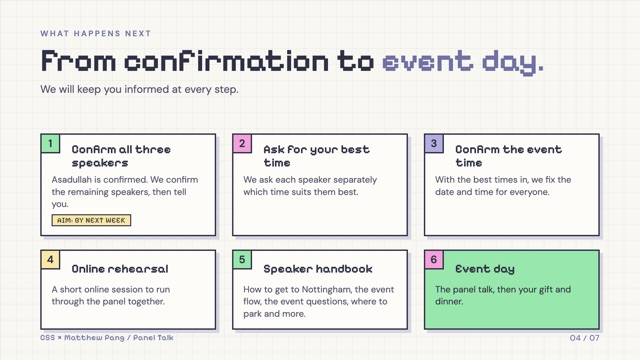
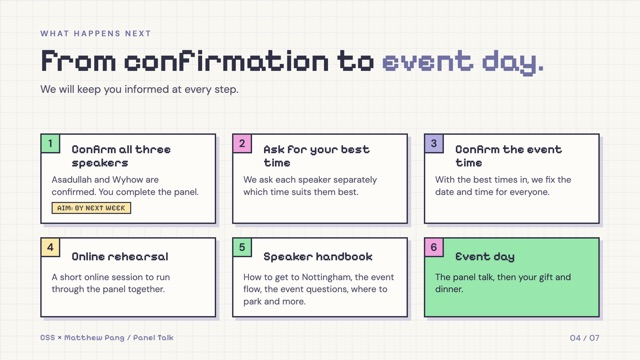
Matthew Pang deck: add his photo and mark Asadullah and Wyhow as confirmed
Matthew Pang is the invited third speaker. The timeline and closing wording now reflect that two of the three are confirmed.

Changed region(s): [[0.0625, 0.4889, 0.9688, 0.9472]]

diff --git a/external/03-matthew-pang-panel/index.html b/external/03-matthew-pang-panel/index.html
@@ -188,7 +188,7 @@
           <div class="info"><h3>Asadullah</h3><p class="role">Data Scientist, Cognizant</p></div>
         </article>
         <article class="person pop" style="--d:4">
-          <span class="stamp invited" aria-hidden="true">INVITED</span>
+          <span class="stamp" aria-hidden="true">CONFIRMED</span>
           <div class="bar"><span>speaker_02</span><span class="lights" aria-hidden="true"><i></i><i></i><i></i></span></div>
           <img class="photo" src="wyhow.jpg" alt="Photo of Wyhow">
           <div class="info"><h3>Wyhow</h3><p class="role">Solution Engineer, Microsoft</p></div>
@@ -196,7 +196,7 @@
         <article class="person pop" style="--d:5">
           <span class="stamp invited" aria-hidden="true">INVITED</span>
           <div class="bar"><span>speaker_03</span><span class="lights" aria-hidden="true"><i></i><i></i><i></i></span></div>
-          <div class="blank" aria-hidden="true">M</div>
+          <img class="photo" src="matthewpang.jpg" alt="Photo of Matthew Pang">
           <div class="info"><h3>Matthew Pang</h3><p class="role">Role and company to follow</p></div>
         </article>
       </div>
@@ -257,7 +257,7 @@
         <p class="lede rise" style="--d:2;font-size:32px">We will keep you informed at every step.</p>
       </div>
       <ol class="road">
-        <li class="stop pop" style="--d:3"><span class="n" style="--c:var(--mint)">1</span><h3>Confirm all three speakers</h3><p>Asadullah is confirmed. We confirm the remaining speakers, then tell you.</p><span class="chip">AIM: BY NEXT WEEK</span></li>
+        <li class="stop pop" style="--d:3"><span class="n" style="--c:var(--mint)">1</span><h3>Confirm all three speakers</h3><p>Asadullah and Wyhow are confirmed. You complete the panel.</p><span class="chip">AIM: BY NEXT WEEK</span></li>
         <li class="stop pop" style="--d:4"><span class="n" style="--c:var(--pink)">2</span><h3>Ask for your best time</h3><p>We ask each speaker separately which time suits them best.</p></li>
         <li class="stop pop" style="--d:5"><span class="n" style="--c:var(--lavender)">3</span><h3>Confirm the event time</h3><p>With the best times in, we fix the date and time for everyone.</p></li>
         <li class="stop pop" style="--d:6"><span class="n" style="--c:var(--sun)">4</span><h3>Online rehearsal</h3><p>A short online session to run through the panel together.</p></li>
@@ -335,7 +335,7 @@
         <div class="bar"><span>next_steps</span><span class="lights" aria-hidden="true"><i></i><i></i><i></i></span></div>
         <div class="body">
           <p class="k">&gt; What we do next</p>
-          <p>We confirm our remaining speakers, aiming for next week, then come back to you with the plan.</p>
+          <p>We would love to confirm you as our third speaker, aiming for next week, then come back to you with the plan.</p>
           <p class="thanks">Thank you, Matthew.</p>
         </div>
       </div>

diff --git a/README.md b/README.md
@@ -21,7 +21,7 @@ Regular slot: Tuesdays at 6 PM, under an hour.
 
 | # | Deck | Folder |
 |---|------|--------|
-| 03 | Computer Science Society Panel Talk, CSS × Matthew Pang: the invitation deck addressed to Matthew Pang, added to the panel as an invited third speaker. His role, company and photo still need adding on slide 2 (7 slides) | [`external/03-matthew-pang-panel/`](external/03-matthew-pang-panel/) |
+| 03 | Computer Science Society Panel Talk, CSS × Matthew Pang: the invitation deck addressed to Matthew Pang, with Matthew Pang as the invited third speaker; Asadullah and Wyhow are shown as confirmed. His role and company still need adding on slide 2 (7 slides) | [`external/03-matthew-pang-panel/`](external/03-matthew-pang-panel/) |
 | 02 | Computer Science Society Panel Talk, CSS × Asadullah: the same deck addressed to Asadullah (Cognizant, confirmed speaker), with a congratulations on his marriage and wording for a speaker who has already confirmed (7 slides) | [`external/02-asadullah-panel/`](external/02-asadullah-panel/) |
 | 01 | Computer Science Society Panel Talk, CSS × Wyhow: the deck we show Wyhow (Microsoft) when we meet to invite him to speak (7 slides: cover, the panel and our LinkedIn/Instagram promotion, speaker hospitality with the RM40 travel cap, the road to event day, optional MOU, what we need from the speaker with a poster preview, points to confirm) | [`external/01-wyhow-panel/`](external/01-wyhow-panel/) |
 
